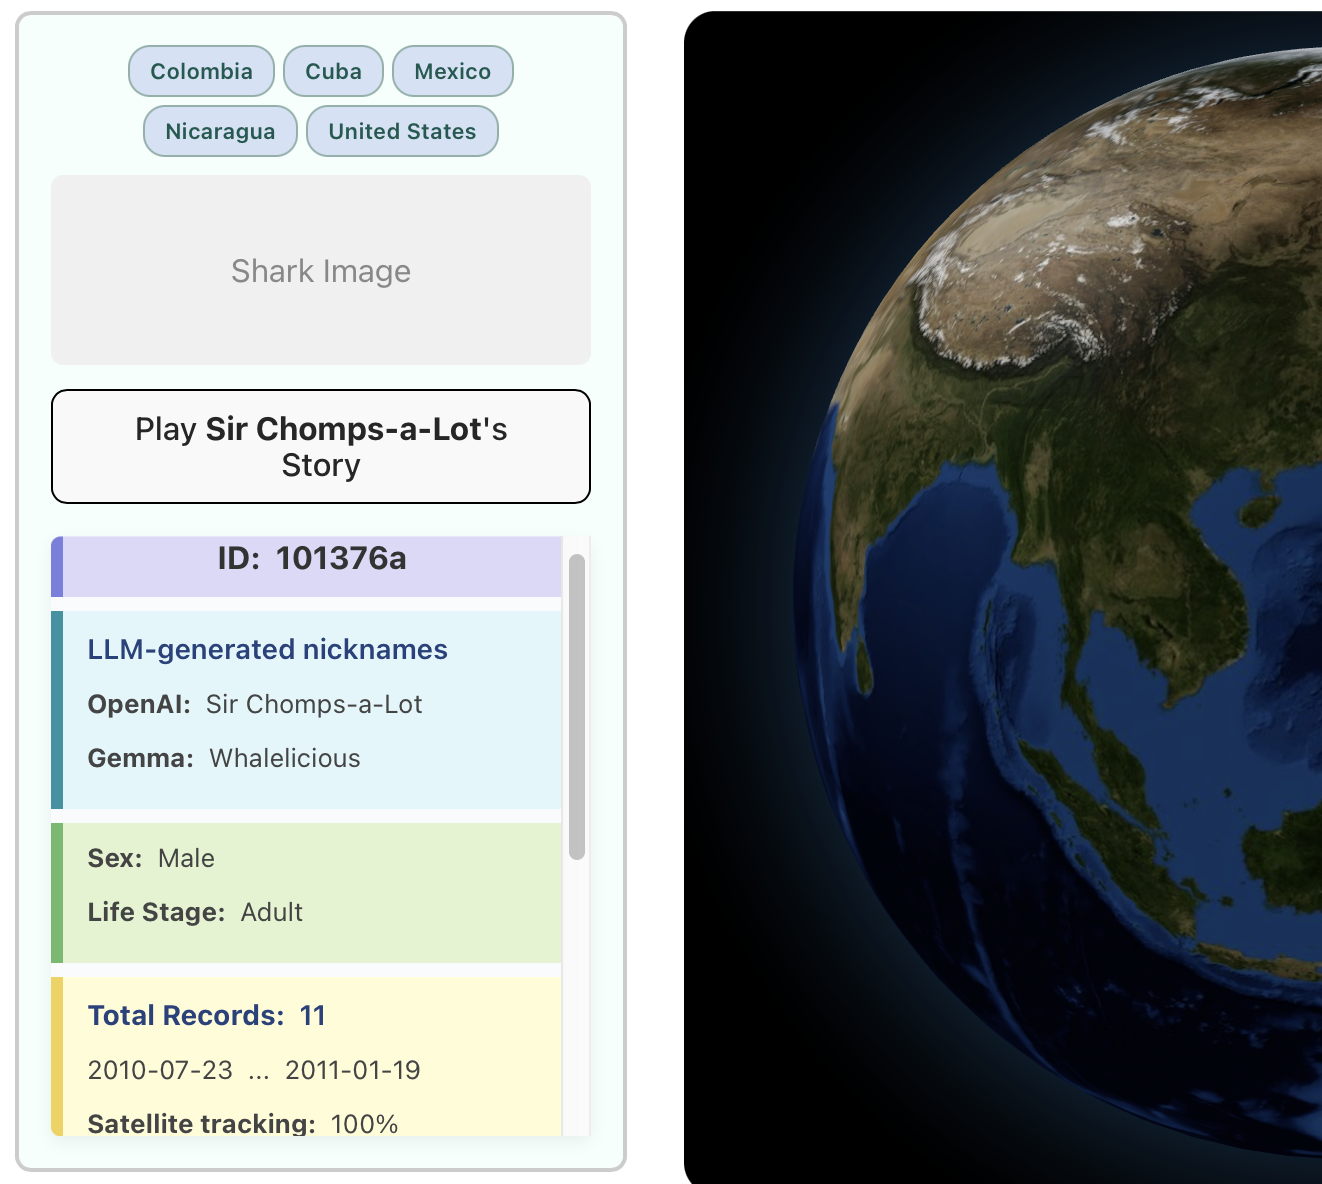
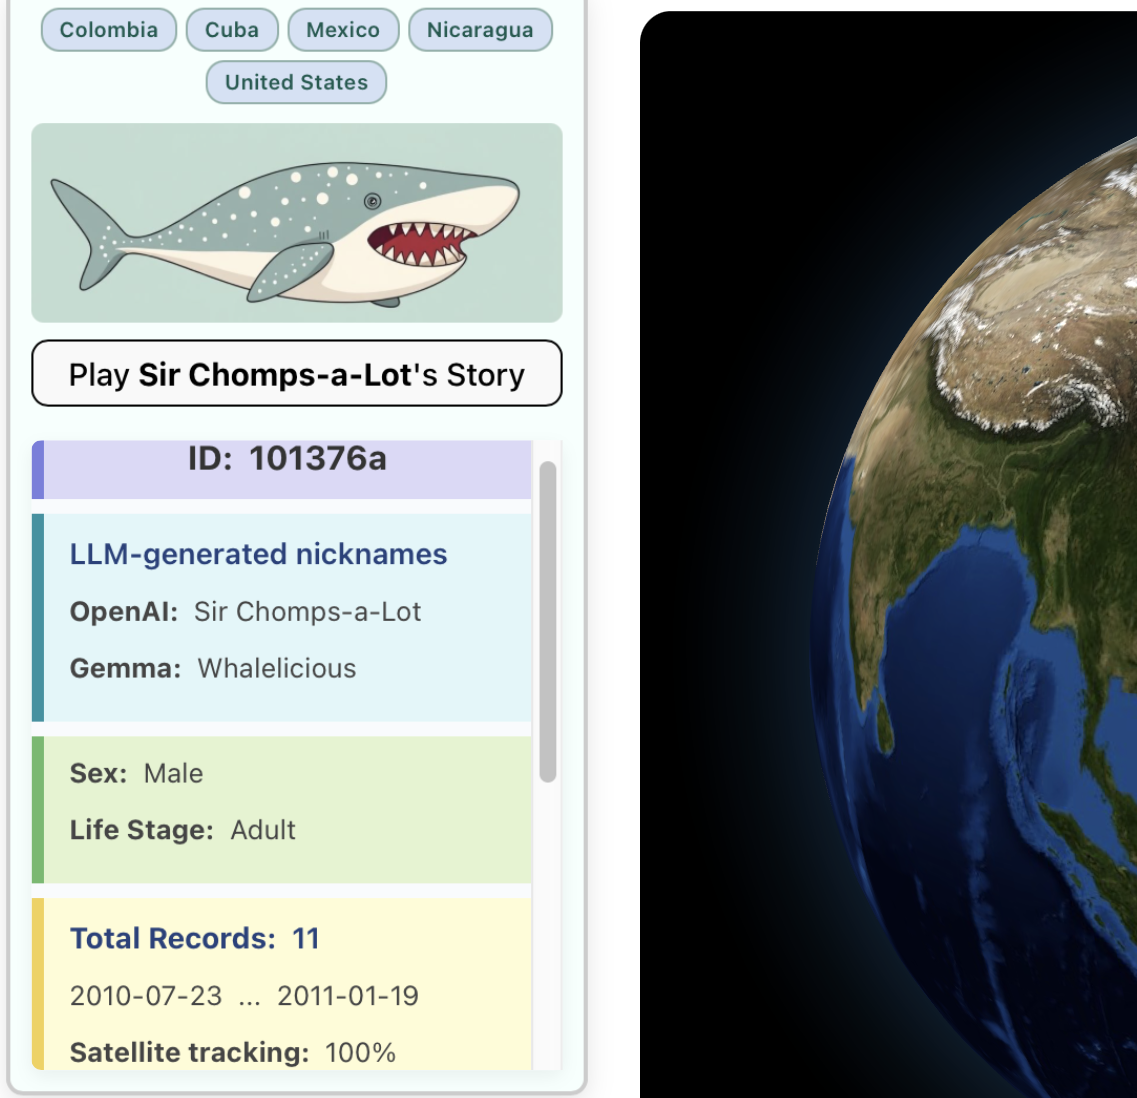
Updated README.md with latest example images + video demos

diff --git a/README.md b/README.md
@@ -1,5 +1,10 @@
 # 🐋 🦈 Whale Shark Master Site
 
+May 2025 update.. this web app is now **LIVE**! Still a WIP, but feel free to start exploring!
+
+——>  **[https://aadriien.github.io/whale-shark-site](https://aadriien.github.io/whale-shark-site)**  <—— 
+
+
 ## Description
 
 Take a deep dive into the world of gentle giants with this **master website of whale shark data**! 
@@ -106,9 +111,14 @@ In the meantime, feel free to explore the codebase and/or reach out with any que
 
 ## Example Images
 
-🪪 Individual Shark Card   |   📍 Geo-Mapping Globe View
+🪪 Individual Shark Card   |   📱 Story Shark Cards Grid
 :-------------------------:|:-------------------------:
-![Example image of toggled shark card](./example-media/example-imgs/shark-card-example-img.png)  |  ![Example image of globe view with geo-mapped data](./example-media/example-imgs/globe-views-example-img.png)
+![Example image of toggled shark card](./example-media/example-imgs/shark-card-example-img.png)  |  ![Example image of multiple shark cards in grid](./example-media/example-imgs/shark-cards-grid-example-img.png)
+
+
+📖 Shark Story in Progress   |   📍 Geo-Mapping Globe View
+:-------------------------:|:-------------------------:
+![Example image of selected shark story in progress](./example-media/example-imgs/story-in-progress-example-img.png)  |  ![Example image of globe view with geo-mapped data](./example-media/example-imgs/globe-views-example-img.png)
 
 
 ## Video Demos
@@ -129,7 +139,7 @@ A massive thank you to the wonderful community of builders, creators, and progra
 
 I used biodiversity data from [GBIF](https://www.gbif.org) to access whale shark records.
 
-I used [Pollinations.AI](https://pollinations.ai)'s API to access OpenAI text generation.
+I used [Pollinations.AI](https://pollinations.ai)'s API to access OpenAI text + image generation.
 
 
 ### Libraries & Modules
